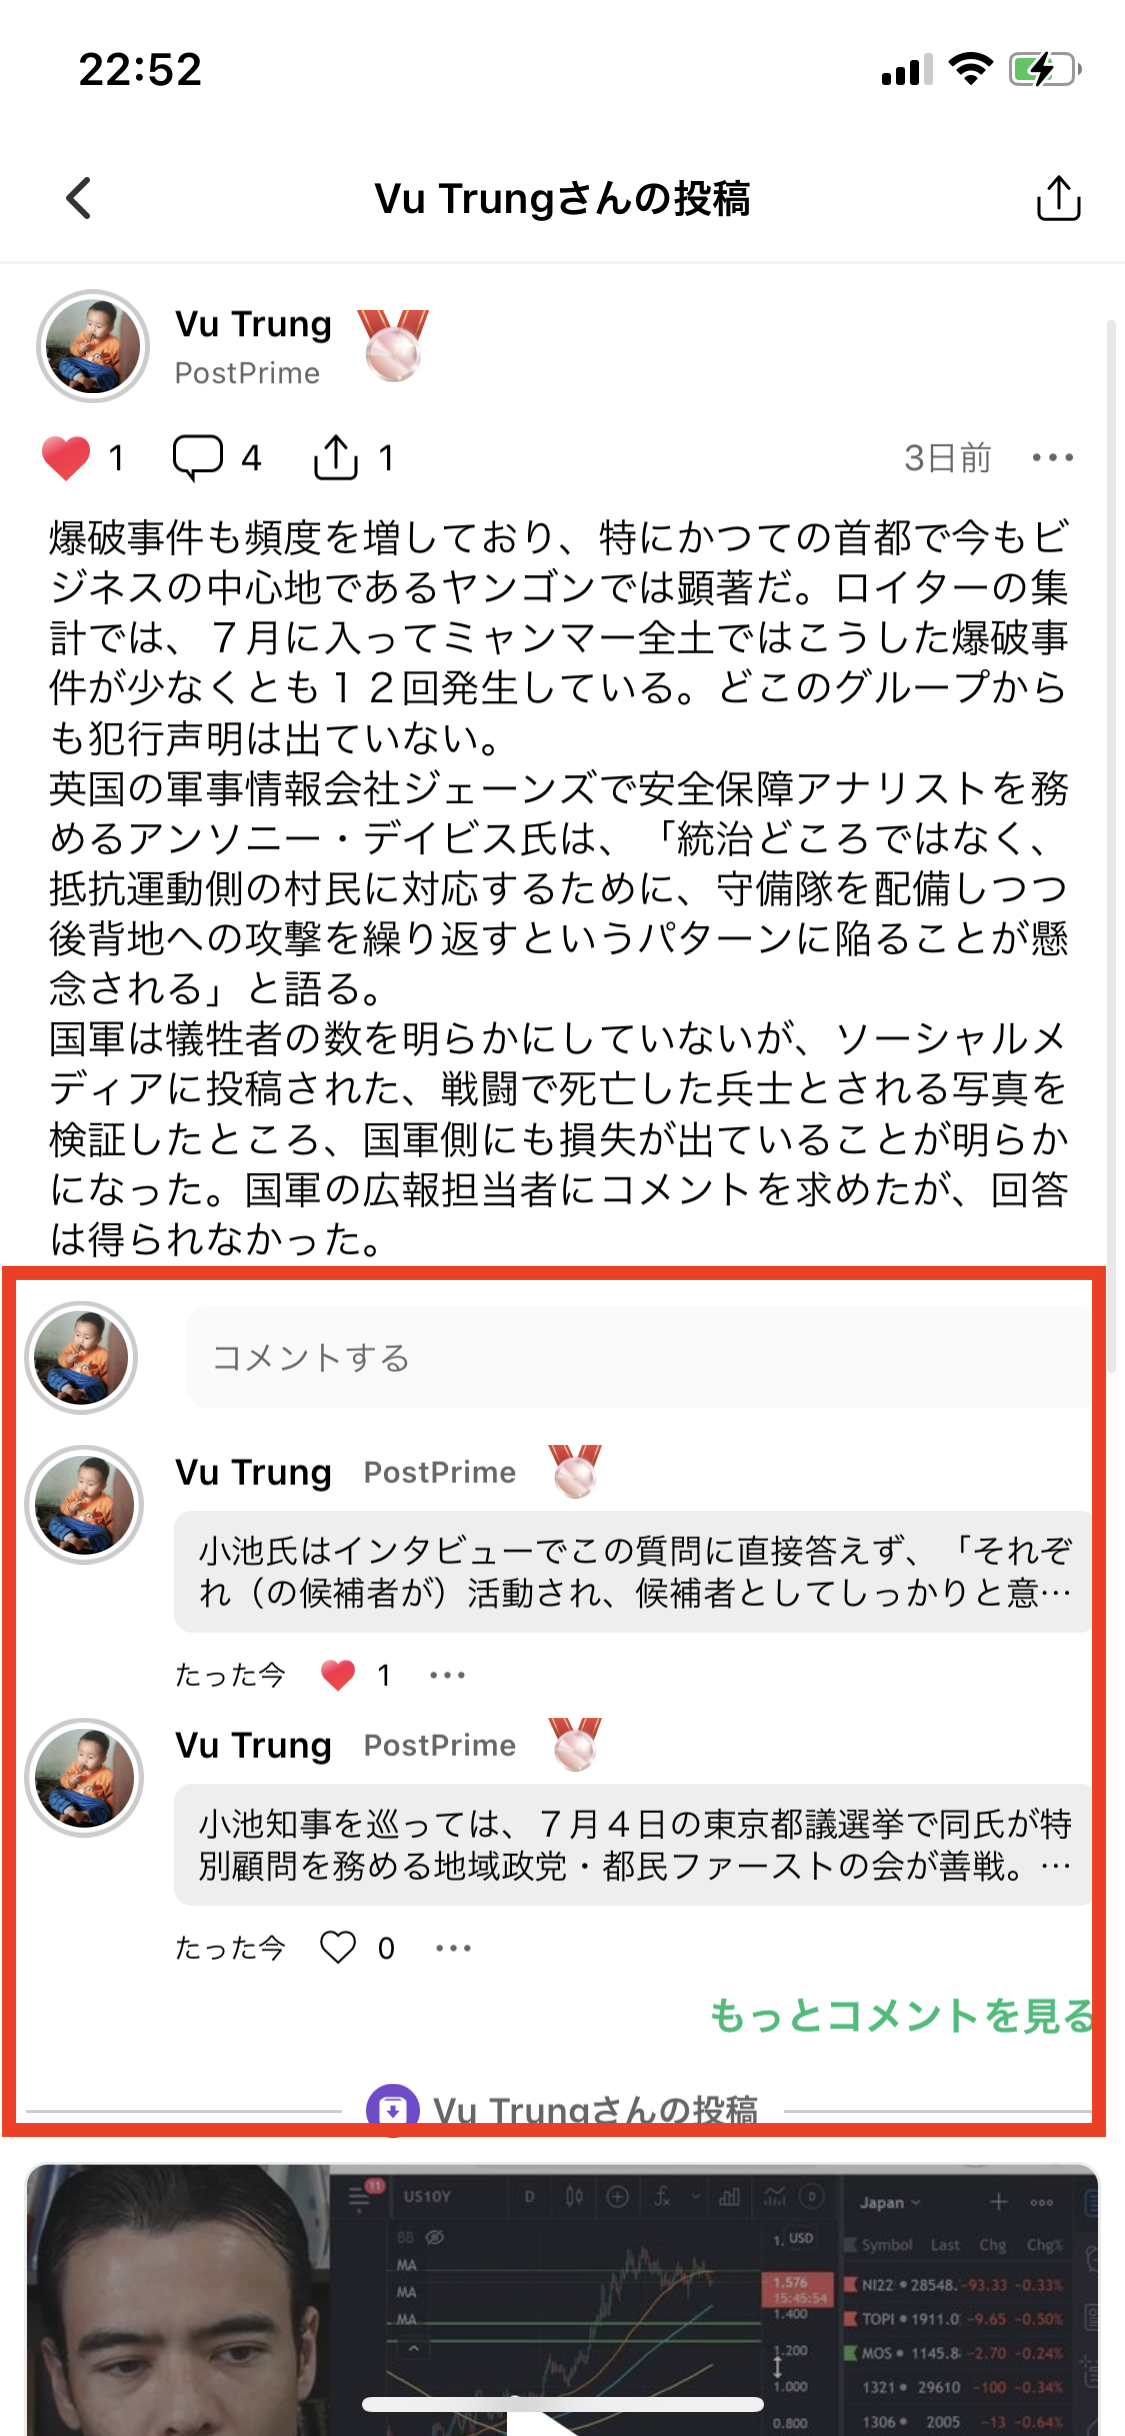
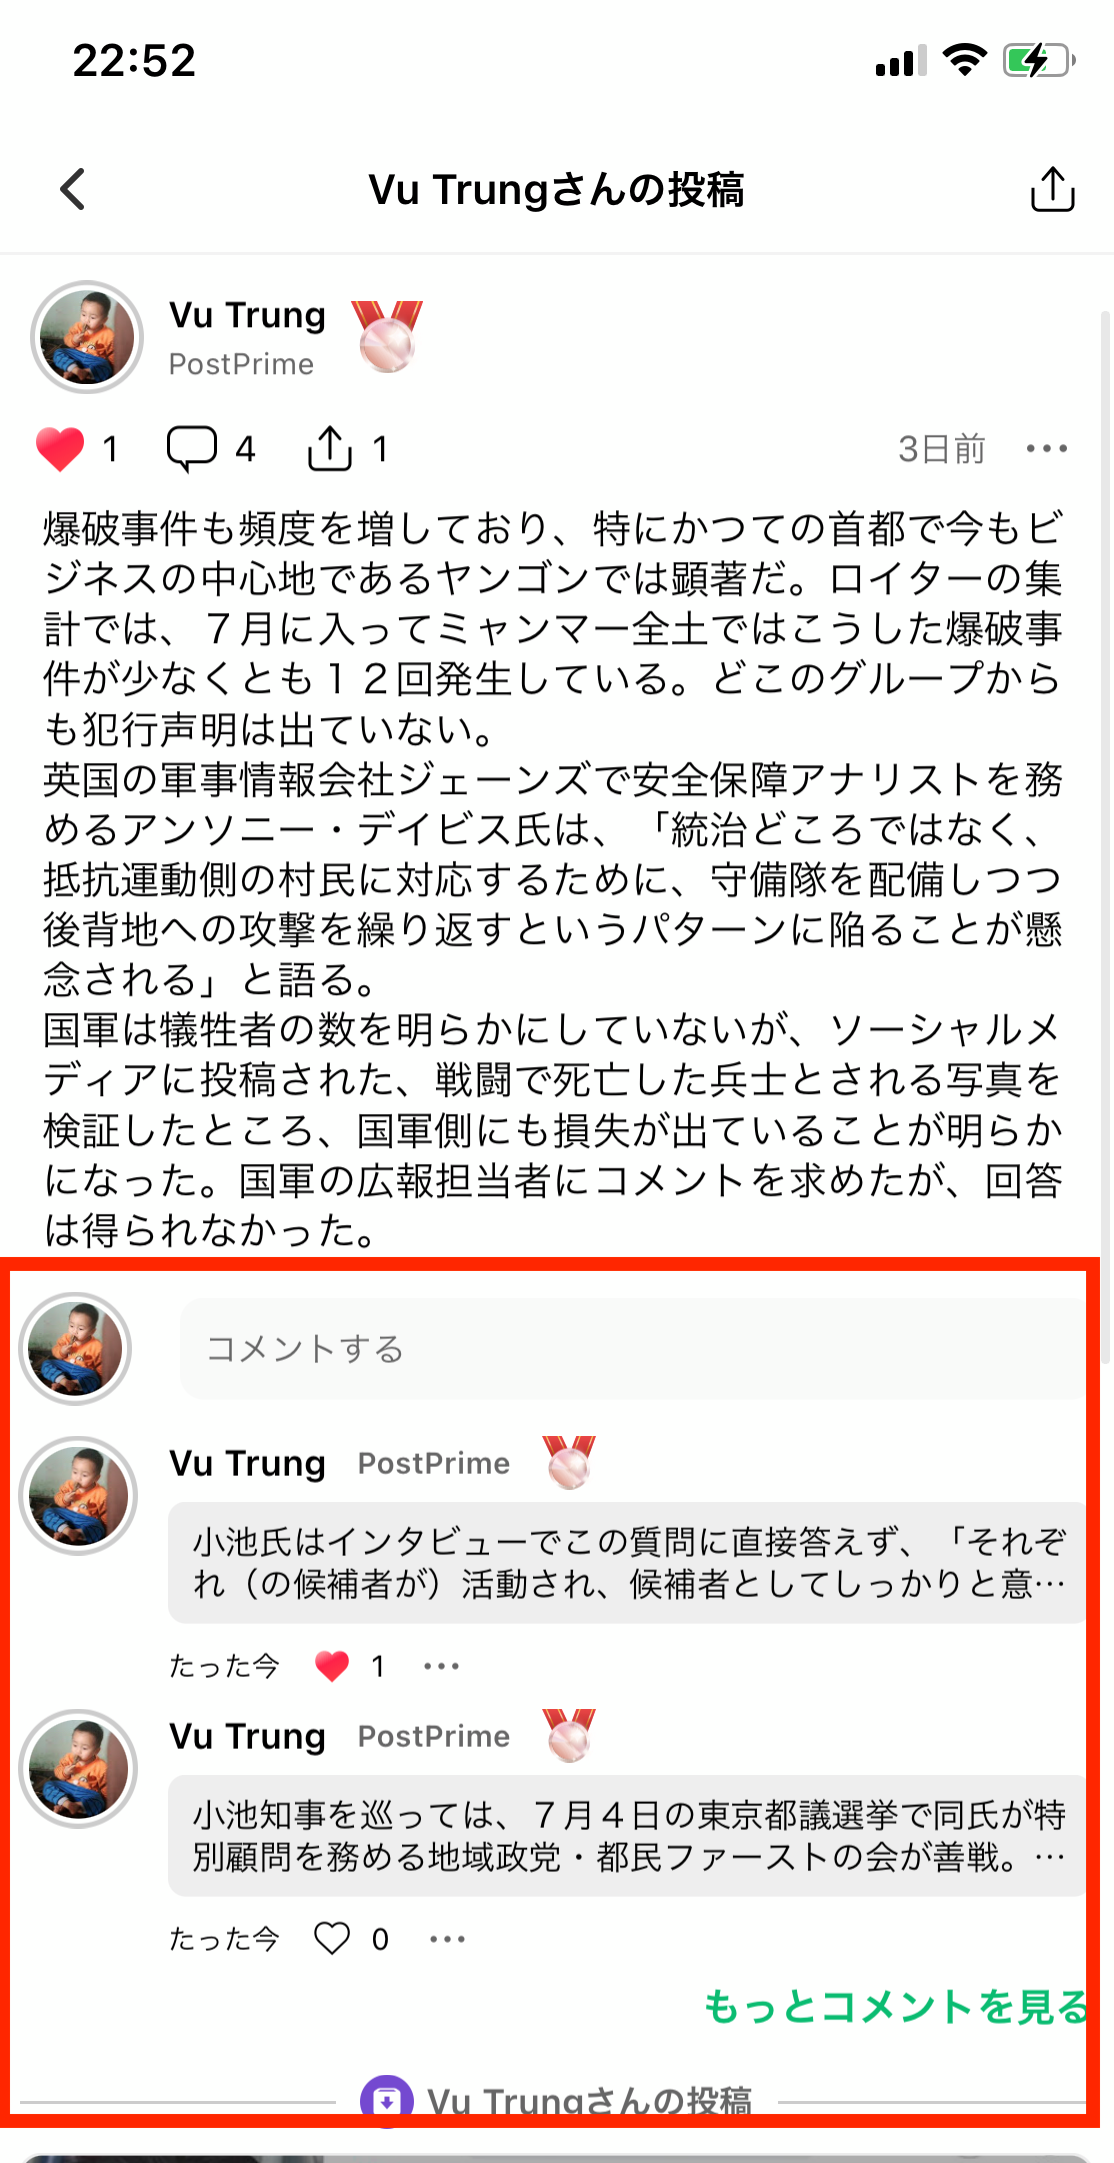
Update image with width

diff --git a/design-docs/comment-system.md b/design-docs/comment-system.md
@@ -4,7 +4,7 @@ Write a design doc for comment function on a post (SNS): users are able to comme
 comments, and also like a comment, report a comment as spam.
 
 For example (with UI):
-![Comments](https://github.com/postprime/postprime-interviews/blob/master/docs/comments.png?raw=true)
+![Comments](https://github.com/postprime/postprime-interviews/blob/master/docs/comments.png?raw=true | width=100)
 
 # Function requirements
 
